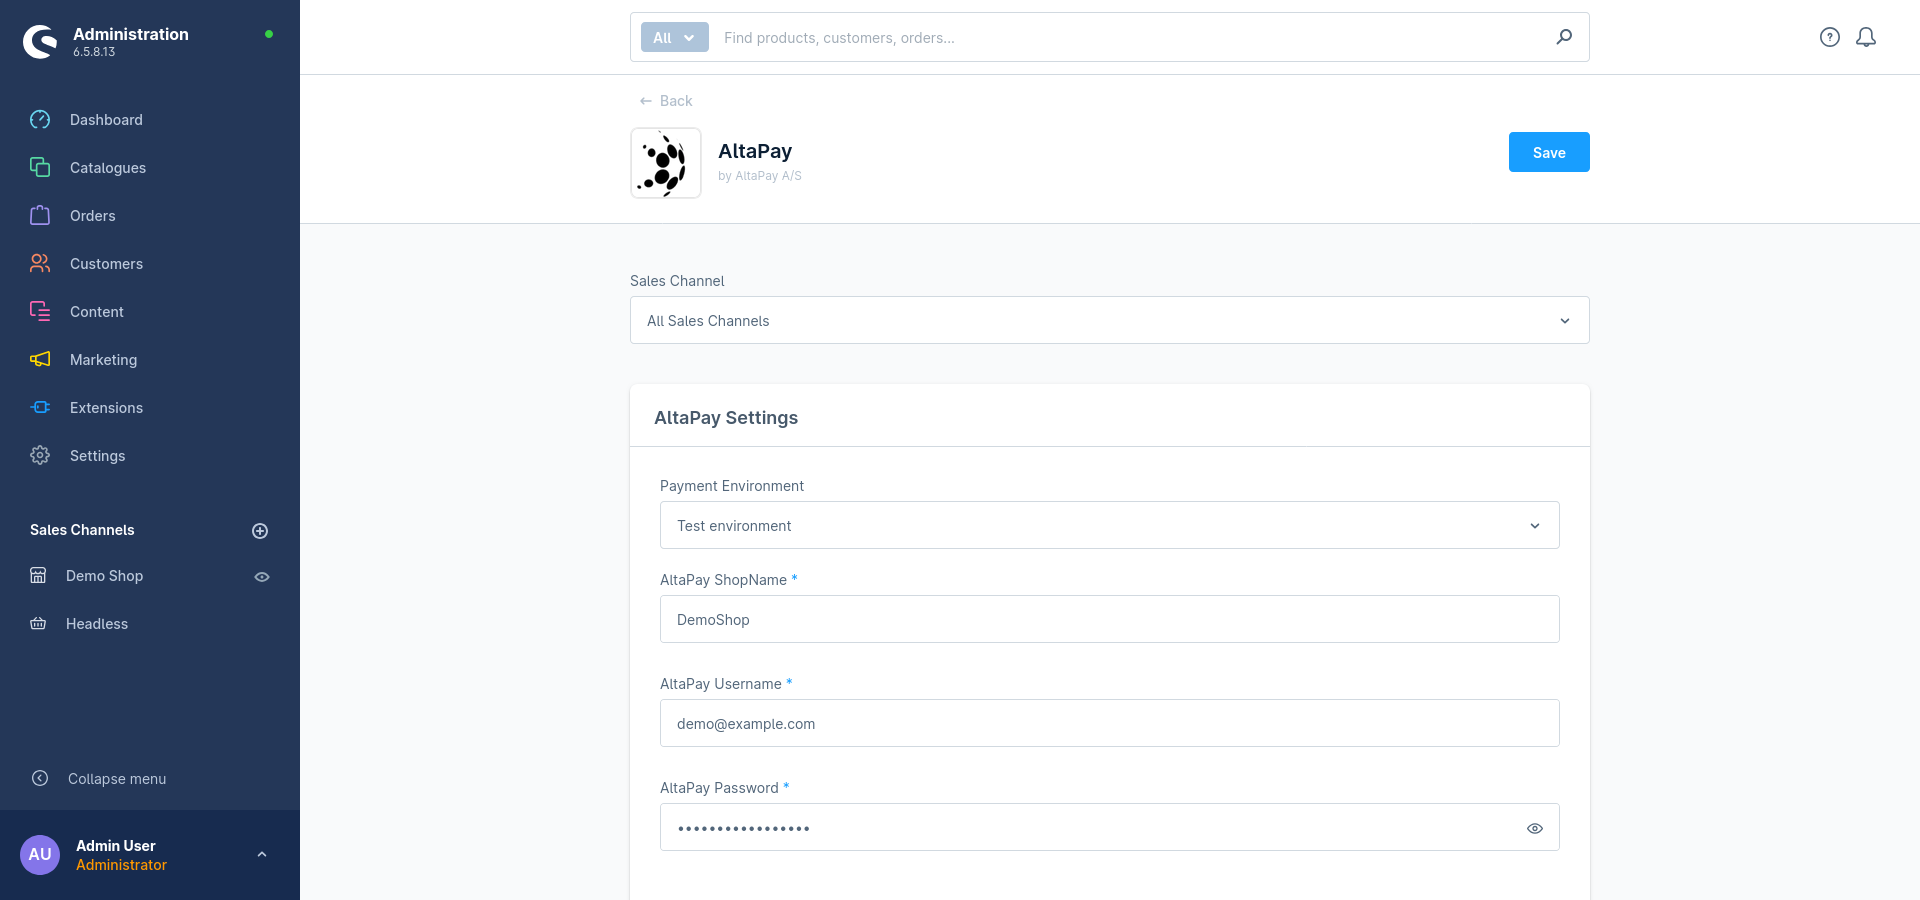
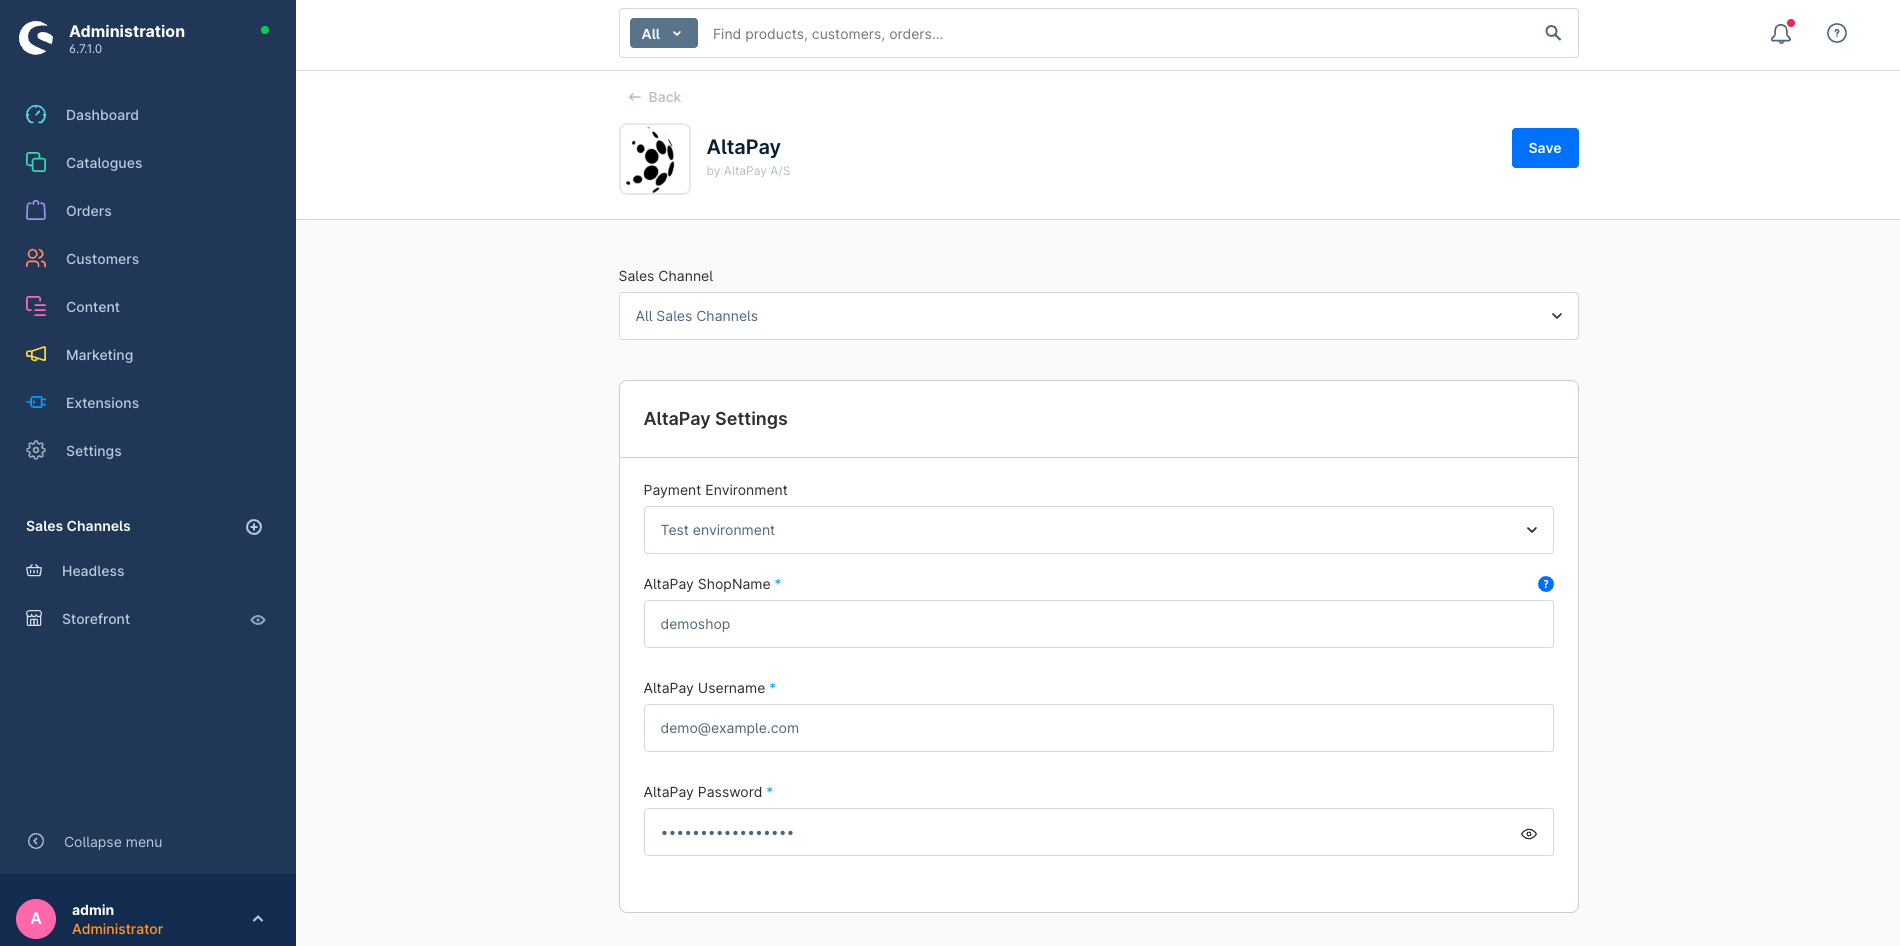
Add help text and add wiki note

diff --git a/wiki.md b/wiki.md
@@ -57,6 +57,8 @@ be provided by AltaPay.
 
    ![shopware_setup_altapay_credentials](Docs/Configuration/shopware_setup_altapay_credentials.png)
 
+    > **Note:** The **AltaPay ShopName** should match the subdomain at the beginning of your AltaPay URL. For example, if your payment URL is `https://demoshop.altapaysecure.com`, then the AltaPay ShopName is `demoshop`.
+
 3. Enable **Keep order in open state** setting if you don't want to change the order state to `Processing` when customer has completed the payment flow.
 
    ![shopware_altapay_extension_configure_keep_order_open](Docs/Configuration/shopware_altapay_extension_configure_keep_order_open.png)
